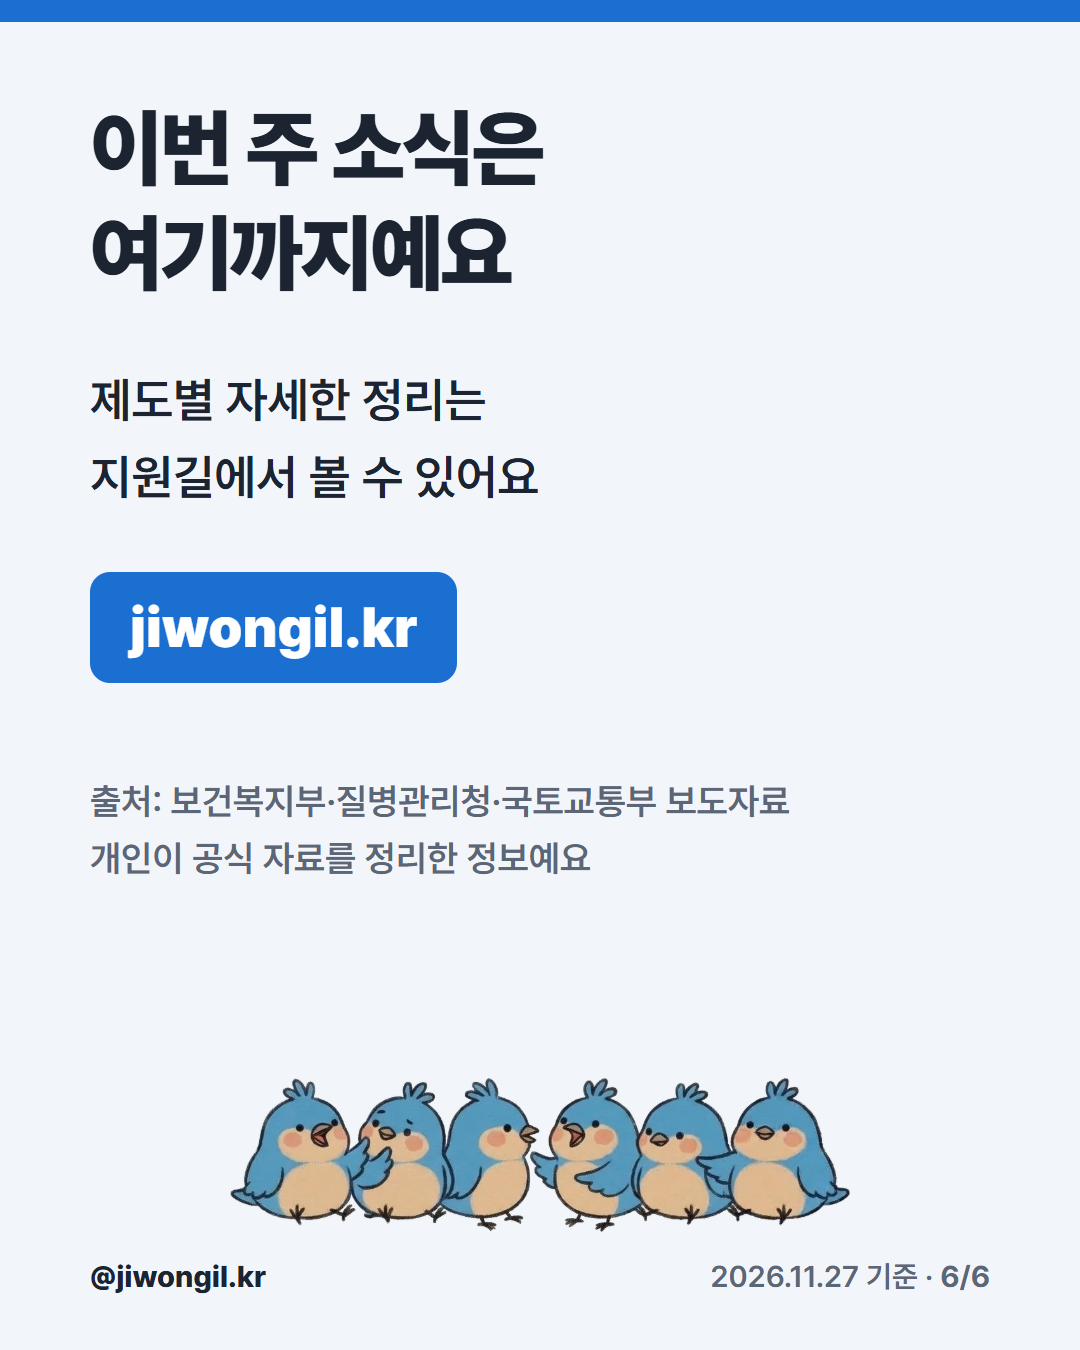
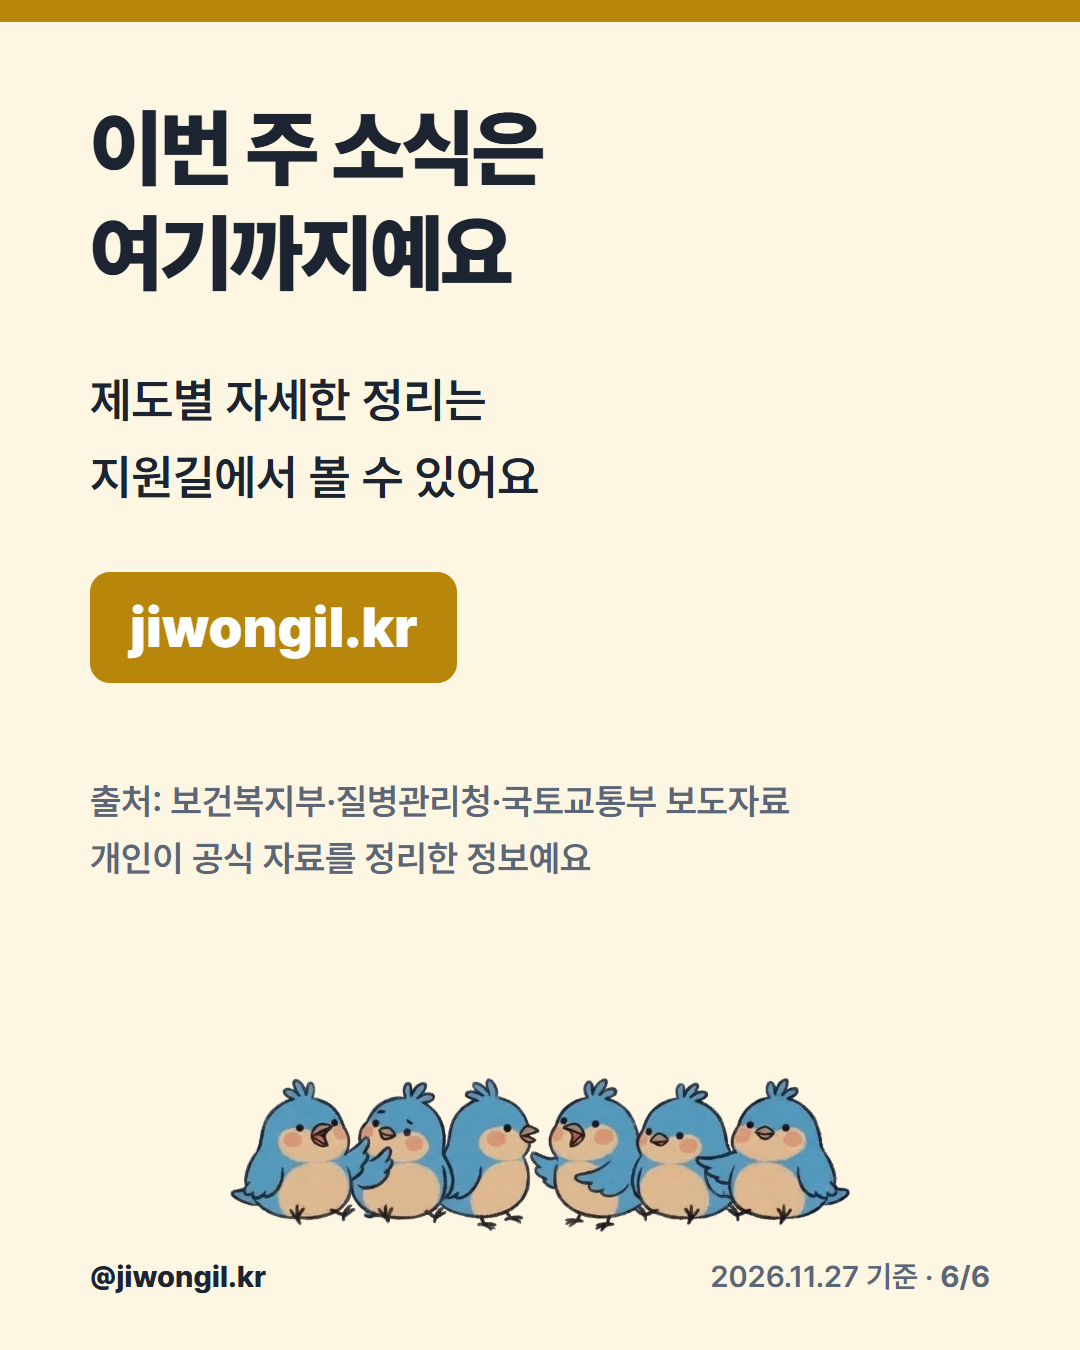
네이버 전용 카드 색: 정부정책뉴스 노랑·상황별 지원 모음 초록(11/27 사용자)

Changed region(s): [[0.0611, 0.4044, 0.4278, 0.5289], [0.0, 0.0, 1.0, 0.0311]]

diff --git a/_tools/insta.html b/_tools/insta.html
@@ -10,6 +10,7 @@
     rows : { type:"rows", step, title, rows:[[큰 글씨, 작은 글씨], ...], note }
     hero : { type:"hero", label, who, pre, amt, badge }  ← 표지 A안(2026-10-22~): 대상 한 줄 + 큰 금액 + 마감(없으면 핵심 조건) 배지
     end  : { type:"end", title, text, source }
+  덱 색: 덱에 theme:"yellow"(네이버 정부정책뉴스) 또는 theme:"green"(네이버 상황별 지원 모음)을 넣으면 파랑 대신 그 색(2026-11-27)
 -->
 <html lang="ko">
 <head>
@@ -81,7 +82,7 @@
 const decks = {
   // 네이버 전용 「상황별 추천」 카드(인스타에는 올리지 않음, 2026-11-28 기준, 근거는 _naver/reco-newborn-checklist/post.txt 주석의 사이트 글)
   "reco-newborn-checklist": {
-    date: "2026.11.28 기준",
+    date: "2026.11.28 기준", theme: "green",
     slides: [
       { type:"hero", label:"아기 태어나면 챙길 정부 지원", who:"출산 직후 가정 · 기한 순서로", pre:"부모급여·아동수당은", amt:"출생 60일 안", badge:"검사비·출산급여는 1년 안" },
       { type:"rows", step:"01 · 바로", title:"출생신고 하면서 바로",
@@ -1030,7 +1031,7 @@ const decks = {
 
   // 네이버 전용 「정부정책뉴스」 카드(인스타에는 올리지 않음). 근거는 _naver/weekly-policy-news-2026-11-4/post.txt 주석의 보도자료
   "weekly-policy-news-2026-11-4": {
-    date: "2026.11.27 기준",
+    date: "2026.11.27 기준", theme: "yellow",
     slides: [
       { type:"cover", label:"정부정책뉴스", title:"이번 주\n복지 정책 소식", badge:"11월 넷째 주",
         sub:"생계급여 · 희귀질환 의료비\n모두의카드 · 수도권 공공주택" },
@@ -1055,6 +1056,9 @@ const [slug, n] = decodeURIComponent(location.hash.slice(1)).split("/");
 const deck = decks[slug];
 const s = deck.slides[(Number(n) || 1) - 1];
 const total = deck.slides.length;
+// 네이버 전용 카테고리 색(2026-11-27 사용자): 정부정책뉴스 yellow, 상황별 지원 모음 green. 없으면 기본 파랑
+const THEMES = { yellow: ["#b7860b", "#fdf6e3"], green: ["#2e8b57", "#eef7f1"] };
+if (deck.theme && THEMES[deck.theme]) { const r = document.documentElement.style; r.setProperty("--brand", THEMES[deck.theme][0]); r.setProperty("--soft", THEMES[deck.theme][1]); }
 const esc = t => String(t).replace(/[&<>]/g, c => ({"&":"&amp;","<":"&lt;",">":"&gt;"}[c]));
 const foot = `<div class="foot"><b>@jiwongil.kr</b><span>${esc(deck.date)} · <span class="page">${n}/${total}</span></span></div>`;
 let html = "";
